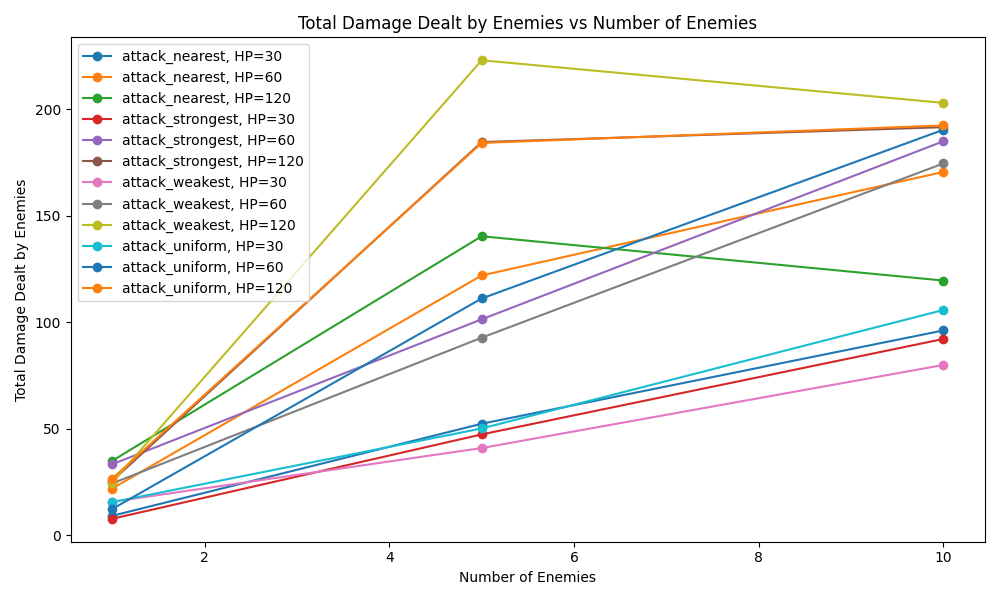
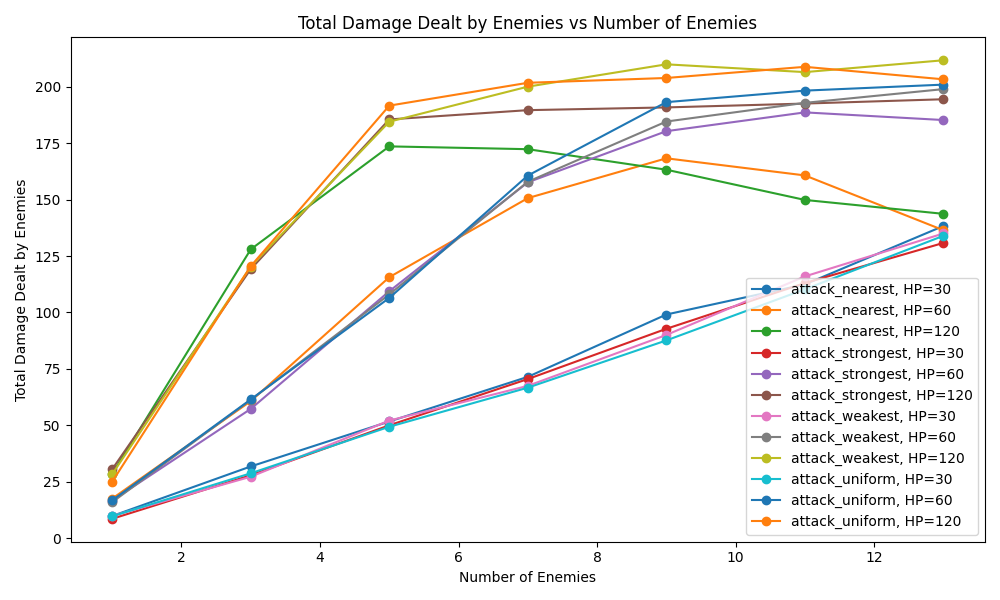
ran simulation with more data points

diff --git a/model.py b/model.py
@@ -191,9 +191,9 @@ def batch_simulation(num_runs=10, num_players=5, num_enemies=10, enemy_strategy=
     return avg_metrics
 
 def experiment_varying_enemies_and_health(
-    num_runs=5, 
+    num_runs=100, 
     num_players=5, 
-    enemy_numbers=[1, 5, 10], 
+    enemy_numbers=[1, 3, 5, 7, 9, 11, 13], 
     enemy_strategies=['attack_nearest', 'attack_strongest', 'attack_weakest', 'attack_uniform'], 
     enemy_healths=[30, 60, 120]
 ):
@@ -243,26 +243,26 @@ def experiment_varying_enemies_and_health(
 
 if __name__ == "__main__":
     # Uncomment to run the live demo
-    model = Model(num_enemies=10, enemy_max_health=60)
-    show(model)
-    metrics = model.compute_metrics()
-    for key, value in metrics.items():
-        if isinstance(value, float):
-            print(f"{key}: {value:.2f}")
-        else:
-            print(f"{key}: {value}")
+    # model = Model(num_enemies=10, enemy_max_health=60)
+    # show(model)
+    # metrics = model.compute_metrics()
+    # for key, value in metrics.items():
+    #     if isinstance(value, float):
+    #         print(f"{key}: {value:.2f}")
+    #     else:
+    #         print(f"{key}: {value}")
 
-    model = Model(num_enemies=5, enemy_max_health=120)
-    show(model)
-    metrics = model.compute_metrics()
-    for key, value in metrics.items():
-        if isinstance(value, float):
-            print(f"{key}: {value:.2f}")
-        else:
-            print(f"{key}: {value}")
+    # model = Model(num_enemies=5, enemy_max_health=120)
+    # show(model)
+    # metrics = model.compute_metrics()
+    # for key, value in metrics.items():
+    #     if isinstance(value, float):
+    #         print(f"{key}: {value:.2f}")
+    #     else:
+    #         print(f"{key}: {value}")
 
     # Uncomment to run a batch simulation
     # batch_simulation(num_runs=5, num_players=5, num_enemies=10)
 
     # Uncomment to run the experiment with varying enemies and health
-    # experiment_varying_enemies_and_health()
+    experiment_varying_enemies_and_health()
